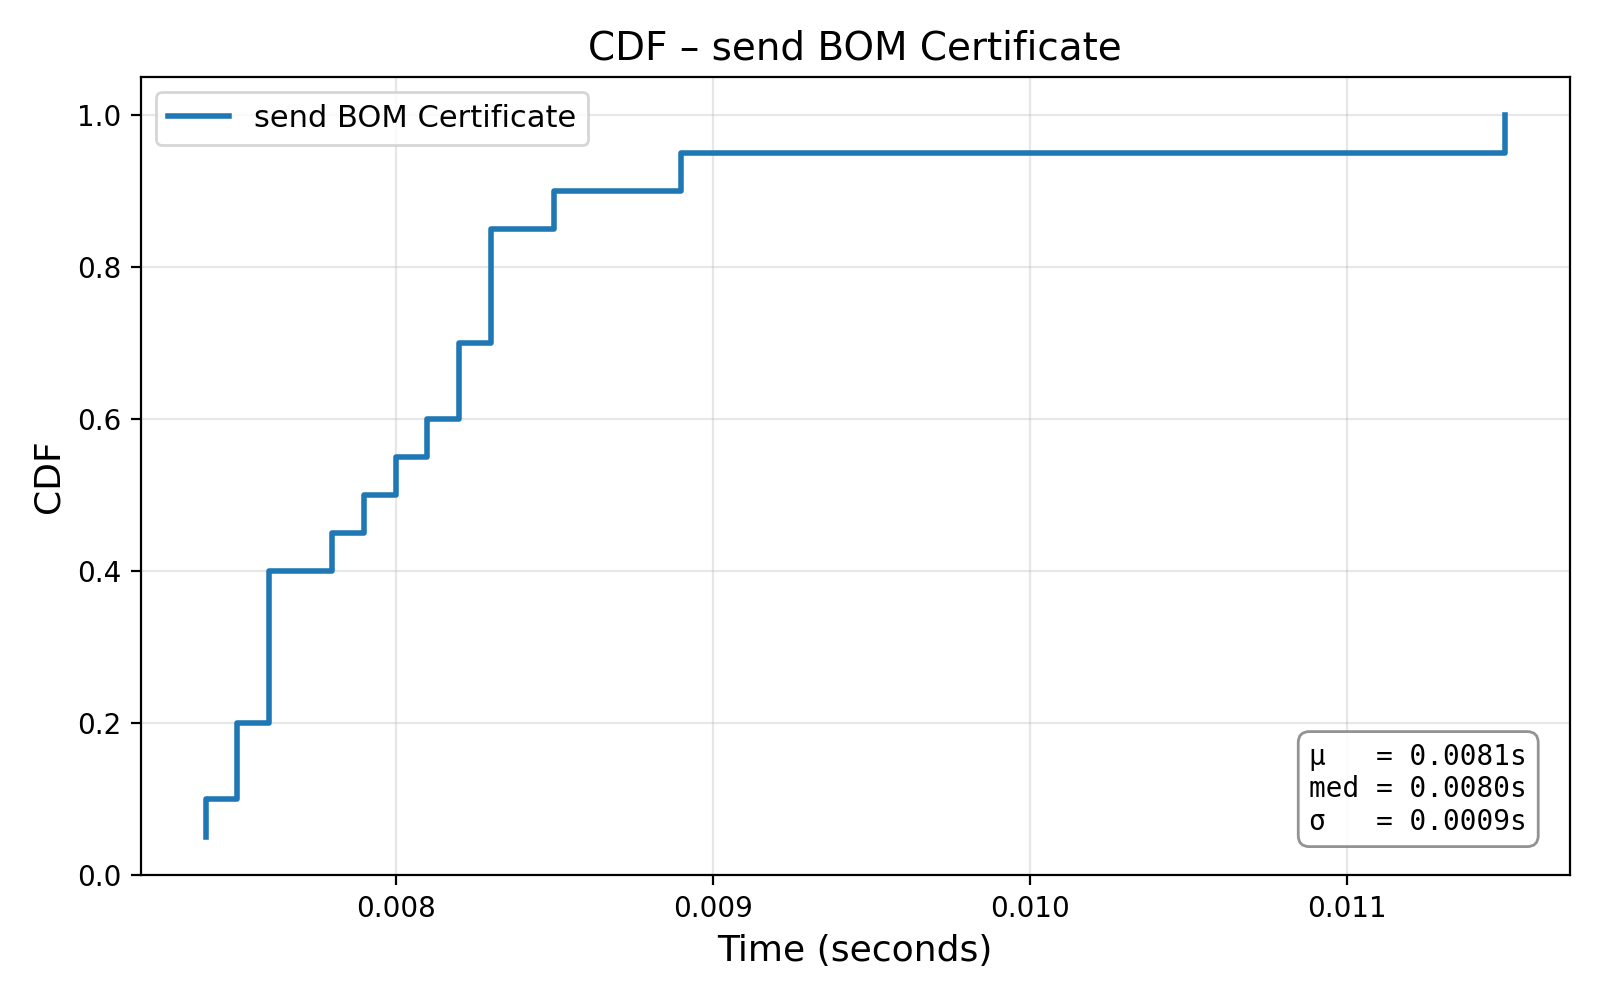
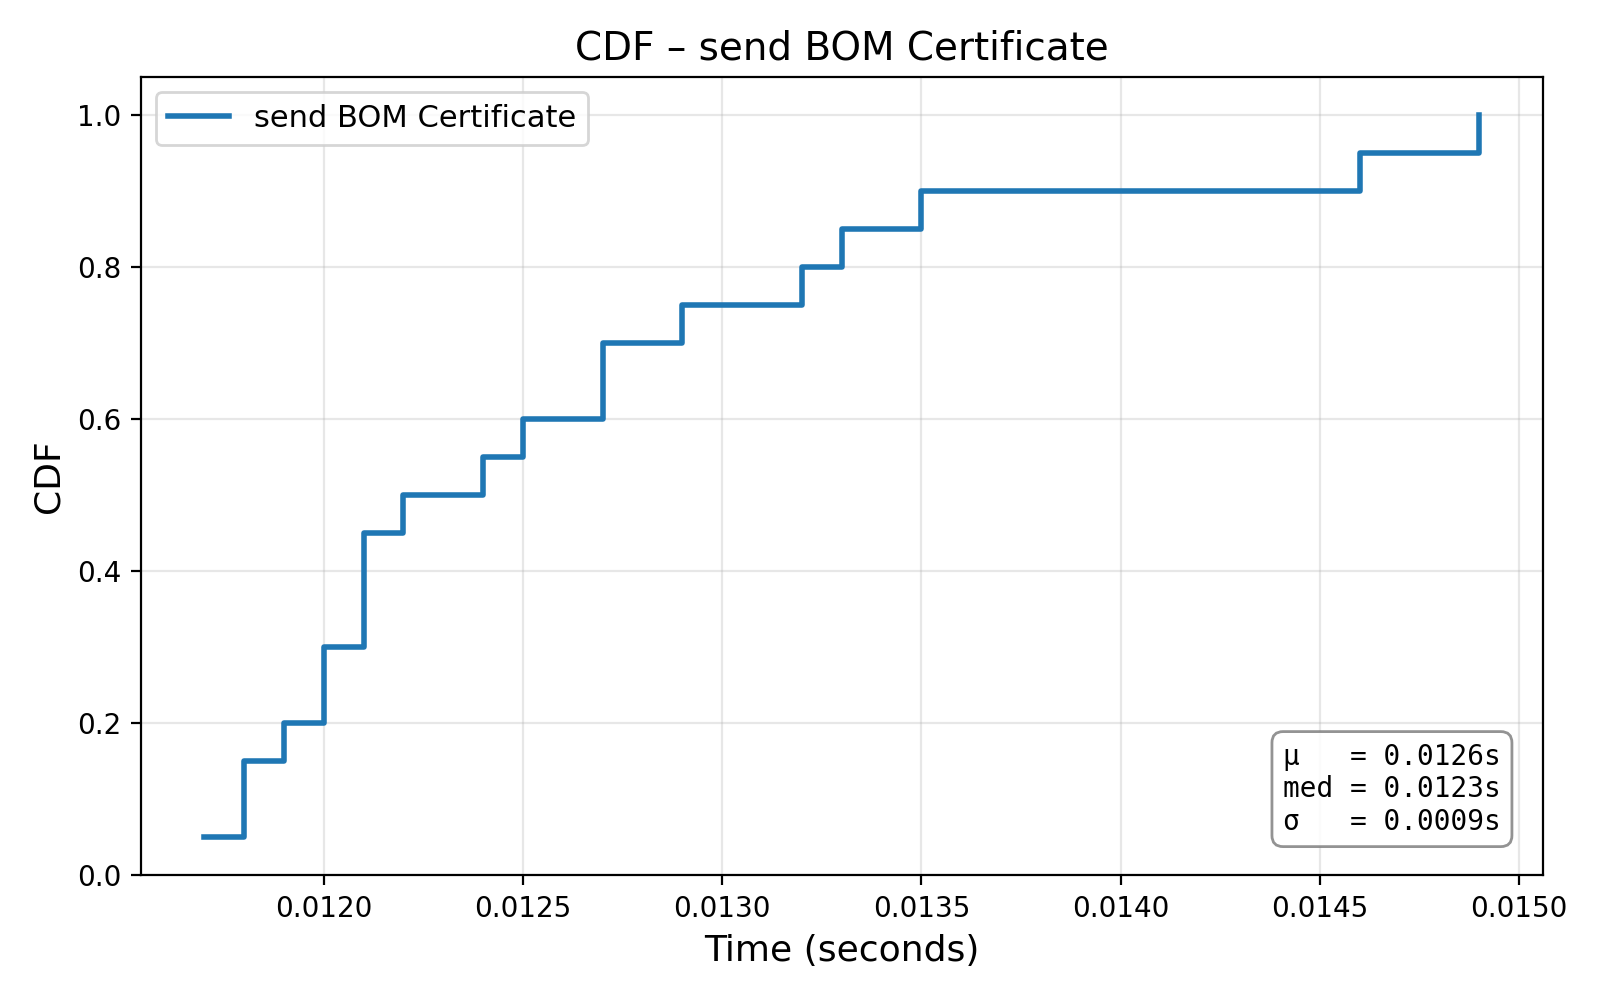
sdt adaptor fixed, BOM files works successfully, new cdf of sdt adaptor added

diff --git a/timestamps_component/adapter_all.py b/timestamps_component/adapter_all.py
@@ -836,7 +836,7 @@ class DTModelAdapter():
                     logger.error(f"Unsupported file type: {file_type}")
                     continue
                 
-                # Use file_path as key if thingId is disabled
+                # Use filename as key if thingId is disabled
                 things[file_path] = thing
                 logger.info(f"Processed {file_path}")
                 
